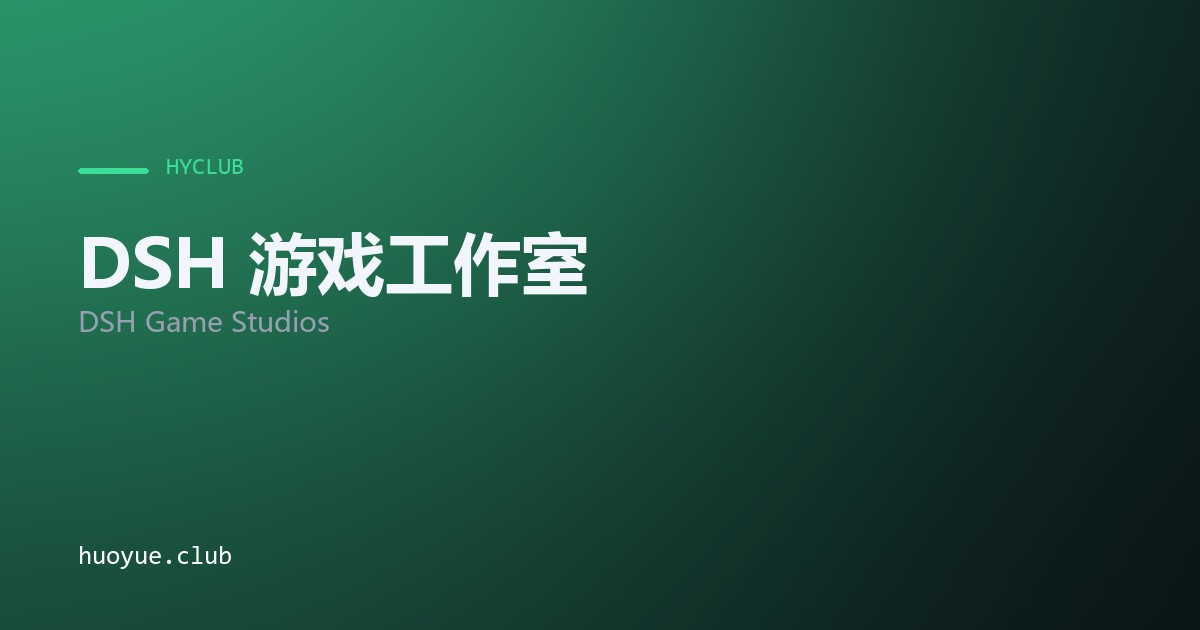
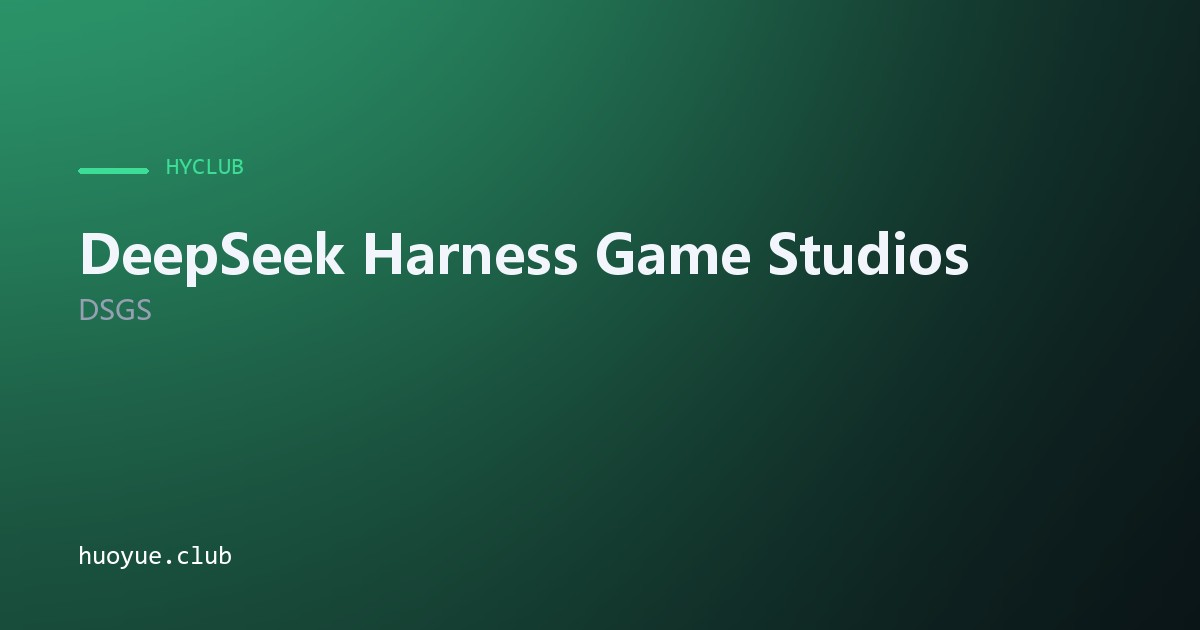
DSGS 卡片改用英文全名，并实时显示 GitHub 星数
- name 改为 DeepSeek Harness Game Studios，nameEn 用缩写 DSGS；
  详情页 title / og:title / 页脚链接 / OG 分享图 / README 一并更新
- 卡片右上角新增星标：src/js/live-stats.js 在页面加载后从
  api.github.com/repos/{owner}/{repo} 读一次（匿名可读、带 CORS），
  结果缓存 localStorage 10 分钟，读不到就不显示、0 星不占位
- 星标放在 .card__badges-right 容器里，向左延伸，不会把「开源 | MIT」挤出原位

克隆数没做：GitHub 的 /traffic/clones 需要仓库 push 权限，匿名调用返回 401，
静态站点在浏览器里读不到；而且它只保留最近 14 天，没有累计总数。
要显示只能用 PAT 在构建时抓成快照，那就又回到「数据会过期」的老问题。
README 里记了这个限制。

Changed region(s): [[0.0617, 0.3619, 0.8017, 0.5429]]

diff --git a/src/js/live-stats.js b/src/js/live-stats.js
@@ -1,0 +1,90 @@
+/**
+ * live-stats.js —— 卡片上的实时仓库数据
+ *
+ * 目前只有星数。GitHub 的 /repos/{owner}/{repo} 匿名可读、带 CORS，
+ * 页面加载后直接拉一次，拉到就把星标插进卡片右上角。
+ *
+ * 拉不到就不显示 —— 不 loading、不报错、不留空位。
+ * 结果缓存在 localStorage 10 分钟，避免同一访客反复刷新把匿名额度（60 次/小时）用光。
+ *
+ * 克隆数不在这里：GitHub 的 /traffic/clones 需要仓库管理权限，
+ * 匿名调用返回 401，静态站点在浏览器里读不到。详见 README。
+ */
+
+const CACHE_KEY = 'hyclub:repo-stars:v1'
+const CACHE_TTL = 10 * 60 * 1000
+const TIMEOUT_MS = 4000
+
+function readCache() {
+  try {
+    return JSON.parse(localStorage.getItem(CACHE_KEY) ?? '{}') ?? {}
+  } catch {
+    return {}
+  }
+}
+
+function writeCache(map) {
+  try {
+    localStorage.setItem(CACHE_KEY, JSON.stringify(map))
+  } catch {
+    // 隐私模式 / 配额满，忽略即可
+  }
+}
+
+async function fetchStars(repo) {
+  const controller = new AbortController()
+  const timer = setTimeout(() => controller.abort(), TIMEOUT_MS)
+  try {
+    const response = await fetch(`https://api.github.com/repos/${repo}`, {
+      signal: controller.signal,
+      headers: { accept: 'application/vnd.github+json' },
+    })
+    if (!response.ok) return null
+    const json = await response.json()
+    return typeof json?.stargazers_count === 'number' ? json.stargazers_count : null
+  } catch {
+    return null
+  } finally {
+    clearTimeout(timer)
+  }
+}
+
+function starPill(count) {
+  const pill = document.createElement('span')
+  pill.className = 'pill pill--stars'
+  pill.title = `GitHub 星标 ${count}`
+  pill.textContent = `★ ${count}`
+  return pill
+}
+
+export async function attachStars() {
+  const cards = [...document.querySelectorAll('[data-repo]')]
+  if (!cards.length) return
+
+  const cache = readCache()
+  const now = Date.now()
+  let dirty = false
+
+  await Promise.all(
+    cards.map(async (card) => {
+      const repo = card.dataset.repo
+      const slot = card.querySelector('.card__badges-right')
+      if (!repo || !slot) return
+
+      const cached = cache[repo]
+      let stars = cached && now - cached.at < CACHE_TTL ? cached.stars : null
+
+      if (stars === null) {
+        stars = await fetchStars(repo)
+        if (stars === null) return // 读不到就什么都不显示
+        cache[repo] = { stars, at: now }
+        dirty = true
+      }
+
+      if (stars <= 0) return // 0 星不占位置
+      slot.prepend(starPill(stars))
+    }),
+  )
+
+  if (dirty) writeCache(cache)
+}

diff --git a/src/js/components.js b/src/js/components.js
@@ -115,6 +115,23 @@ export function opennessBadgeHtml(project) {
   )
 }
 
+/**
+ * 从 links.source 里取出 "owner/repo"，供卡片标记 data-repo。
+ * 只有 showStars 打开的项目才标记 —— 星数是页面加载后实时拉的，
+ * 每张标记的卡片都会产生一次 GitHub API 请求，没必要为 0 星的项目花。
+ */
+function starredRepoSlug(project) {
+  if (!project.showStars || !project.links.source) return null
+  try {
+    const url = new URL(project.links.source)
+    if (url.hostname !== 'github.com' && url.hostname !== 'www.github.com') return null
+    const [owner, name] = url.pathname.split('/').filter(Boolean)
+    return owner && name ? `${owner}/${name}` : null
+  } catch {
+    return null
+  }
+}
+
 /* -------------------------------------------------------------- 卡片 */
 export function cardHtml(project, { size = 'sm' } = {}) {
   const cta = ctaOf(project)
@@ -123,10 +140,14 @@ export function cardHtml(project, { size = 'sm' } = {}) {
   const tagLimit = size === 'lg' ? 5 : 3
   const hasCover = Boolean(project.cover)
 
+  // 右侧单独包一层：星标是页面加载后才插进来的，
+  // 放进这个容器里就只会向左延伸，不会把「开源 | MIT」推出原位。
   const badgesInner =
     `<span class="pill ${cta.accent ? 'pill--accent' : ''} ${cta.live ? 'pill--live' : ''}">` +
     `<span class="pill__dot"></span>${escapeHtml(cta.badge)}</span>` +
-    opennessBadgeHtml(project)
+    `<span class="card__badges-right">${opennessBadgeHtml(project)}</span>`
+
+  const repoSlug = starredRepoSlug(project)
 
   const tags = (project.tech ?? [])
     .slice(0, tagLimit)
@@ -183,7 +204,8 @@ export function cardHtml(project, { size = 'sm' } = {}) {
 
   return (
     `<article class="card card--${size}${hasCover ? '' : ' card--plain'}" ` +
-    `style="${accentStyle(project)}" data-id="${escapeHtml(project.id)}">` +
+    `style="${accentStyle(project)}" data-id="${escapeHtml(project.id)}"` +
+    `${repoSlug ? ` data-repo="${escapeHtml(repoSlug)}"` : ''}>` +
     stretch +
     media +
     body +

diff --git a/src/data/projects.js b/src/data/projects.js
@@ -281,8 +281,8 @@ export const PROJECTS = [
   },
   {
     id: 'dsgs',
-    name: 'DSH 游戏工作室',
-    nameEn: 'DeepSeek Harness Game Studios',
+    name: 'DeepSeek Harness Game Studios',
+    nameEn: 'DSGS',
     tagline: '把一次 DSH 会话变成一个完整的游戏开发工作室',
     blurb:
       '把一次 DeepSeek Harness 会话变成一个完整的游戏开发工作室。移植自 Claude Code Game Studios（MIT），把 49 个 agent、76 个技能、13 条规则与 14 个 Node 钩子打包成一次性安装：插件首次加载时装到机器级目录，之后在任意空文件夹开新会话输入 /start 就能初始化并进入引导。移植保真度实测 258 个文件、42,895 行，96% 逐字一致。',
@@ -295,6 +295,8 @@ export const PROJECTS = [
     license: 'MIT',
     lang: 'JavaScript',
     openSource: true,
+    /** 卡片右上角实时显示 GitHub 星数（页面加载后从 GitHub API 读） */
+    showStars: true,
     accent: '#3ddc97',
     cta: 'detail',
     cover: null,

diff --git a/projects/dsgs.html b/projects/dsgs.html
@@ -3,7 +3,7 @@
   <head>
     <meta charset="utf-8" />
     <meta name="viewport" content="width=device-width, initial-scale=1" />
-    <title>DSH 游戏工作室 · HYClub</title>
+    <title>DeepSeek Harness Game Studios · HYClub</title>
     <meta
       name="description"
       content="把 DeepSeek Harness 会话变成一个完整游戏开发工作室：49 个 agent、76 个技能、13 条规则与 14 个 Node 钩子，一次安装全部就位。MIT 开源。"
@@ -15,7 +15,7 @@
     <meta property="og:type" content="article" />
     <meta property="og:site_name" content="HYClub" />
     <meta property="og:locale" content="zh_CN" />
-    <meta property="og:title" content="DSH 游戏工作室 · HYClub" />
+    <meta property="og:title" content="DeepSeek Harness Game Studios · HYClub" />
     <meta
       property="og:description"
       content="49 个 agent、76 个技能、14 个钩子：把 DSH 会话变成完整游戏开发工作室。"

diff --git a/src/styles/site.css b/src/styles/site.css
@@ -423,6 +423,21 @@ button {
   margin-bottom: 6px;
 }
 
+/* 右上角那一组：星标是后插进来的，放在这个容器里只会向左长，
+   不会把「开源 | MIT」挤出原位 */
+.card__badges-right {
+  display: flex;
+  align-items: center;
+  gap: 7px;
+}
+
+/* 星标：暖金色，和主题色区分开 */
+.pill--stars {
+  color: #f0c674;
+  border-color: rgba(240, 198, 116, 0.38);
+  background: rgba(240, 198, 116, 0.12);
+}
+
 /* ------------------------------------------------------ 无配图的卡片 */
 /* 项目没有真实截图时不塞占位图，只用主题色底做区分。
    版面必须和有图的卡片**同一套规则** —— 没有图只是少一张图，

diff --git a/index.html b/index.html
@@ -101,7 +101,7 @@
             <div class="footer__title">引擎 / 工具</div>
             <ul class="footer__list">
               <li><a href="/projects/hyc-framework.html">HYC 游戏框架</a></li>
-              <li><a href="/projects/dsgs.html">DSH 游戏工作室</a></li>
+              <li><a href="/projects/dsgs.html">DeepSeek Harness Game Studios</a></li>
               <li><a href="/projects/vgame-toolkit.html">影游开发套件</a></li>
               <li><a href="/projects/steamcmd-gui.html">SteamCMD 界面</a></li>
             </ul>

diff --git a/src/js/home.js b/src/js/home.js
@@ -8,6 +8,7 @@
 import '../styles/site.css'
 import { SITE, PROJECTS, boardItems } from '../data/projects.js'
 import { brandMark, cardHtml, escapeHtml, moreTileHtml } from './components.js'
+import { attachStars } from './live-stats.js'
 
 const $ = (selector, root = document) => root.querySelector(selector)
 const $$ = (selector, root = document) => [...root.querySelectorAll(selector)]
@@ -76,3 +77,6 @@ renderHero()
 renderBoard()
 wireTopbar()
 renderFooter()
+
+// 星标是后补的，放在最后；读不到就什么都不发生
+attachStars()

diff --git a/tools/gen-assets.py b/tools/gen-assets.py
@@ -51,7 +51,7 @@ PROJECTS = [
     ("stock-persona", "股神异闻录", "Stock Persona", "#e0455f", "sp-shot6.jpg"),
     ("vgame", "AI 影游平台", "vgame", "#a06bff", None),
     ("hyc-framework", "HYC 游戏框架", "HYC Framework", "#4f8cff", None),
-    ("dsgs", "DSH 游戏工作室", "DSH Game Studios", "#3ddc97", None),
+    ("dsgs", "DeepSeek Harness Game Studios", "DSGS", "#3ddc97", None),
     ("vgame-toolkit", "影游开发套件", "vgame-toolkit", "#ffcf4d", None),
     ("steamcmd-gui", "SteamCMD 界面", "SteamCMD GUI", "#6fa8c8", None),
 ]

diff --git a/README.md b/README.md
@@ -12,7 +12,7 @@
 
 | 行 | 内容 |
 | --- | --- |
-| 1 · 大卡 | HYC 游戏框架 · DSH 游戏工作室 |
+| 1 · 大卡 | HYC 游戏框架 · DeepSeek Harness Game Studios |
 | 2 · 小卡 | AI 影游平台 · 影游开发套件 · 雪人兄弟 · 深海声呐员 |
 | 3 · 小卡 | 股神异闻录 · SteamCMD 界面 · **更多 → GitHub** |
 
@@ -32,7 +32,7 @@ export const BOARD = [
 | 分类 | 项目 |
 | --- | --- |
 | 游戏 | 深海声呐员、雪人兄弟、股神异闻录、AI 影游平台 |
-| 引擎 / 框架 | HYC 游戏框架、DSH 游戏工作室、影游开发套件 |
+| 引擎 / 框架 | HYC 游戏框架、DeepSeek Harness Game Studios、影游开发套件 |
 | 工具 | SteamCMD 界面 |
 
 ### 两条内容规矩
@@ -202,7 +202,7 @@ https://raw.githubusercontent.com/HYClub/<repo>/HEAD/<path>
 
 | 来源 | 取法 | 用在 |
 | --- | --- | --- |
-| `tag` | 拉全部 tag，按语义化版本取最大的 | DSH 游戏工作室 |
+| `tag` | 拉全部 tag，按语义化版本取最大的 | DeepSeek Harness Game Studios |
 | `json` | 读仓库里某个 `package.json` 的 `version` | HYC 游戏框架、影游开发套件 |
 | `const` | 正则提源码里的版本常量 | SteamCMD 界面（`__version__`） |
 
@@ -225,6 +225,35 @@ GITHUB_TOKEN=xxx npm run versions         # 读私有仓库时需要
 | `src/js/live-version.js` 的 `SOURCES` | 页面上的现读值 |
 
 私有仓库只需要前者。
+
+---
+
+## 卡片上的实时数据：星数能拿，克隆数拿不到
+
+卡片右上角可以显示 GitHub 星数（当前只有 DSGS 打开了）。
+在项目数据里写 `showStars: true`，`src/js/live-stats.js` 会在页面加载后
+从 `https://api.github.com/repos/{owner}/{repo}` 读一次并插进卡片。
+
+- 匿名可读、带 `CORS: *`，不需要 token
+- 结果缓存在 localStorage 10 分钟，避免反复刷新把匿名额度（60 次/小时）用光
+- 读不到就**什么都不显示**：不 loading、不报错、不留空位
+- 0 星不占位置
+- 星标放在 `.card__badges-right` 容器里，向左延伸，不会把「开源 ｜ MIT」挤出原位
+
+### 克隆数为什么不行
+
+`/traffic/clones` 需要仓库的 push 权限，匿名调用直接返回：
+
+```
+401 { "message": "Requires authentication" }
+```
+
+静态站点的访客在浏览器里没有 token，所以**读不到**。
+而且 GitHub 只保留 **最近 14 天** 的流量，没有「累计总克隆数」这个数。
+
+要显示的话只有一条路：用带该仓库权限的 PAT 在**构建时**抓，写进数据当快照。
+但那样它不会实时更新，站点不重新构建就一直停在旧值 —— 也就是我们刚从版本号上
+搬走的那种「快照」。所以默认没做。
 
 ---
 
